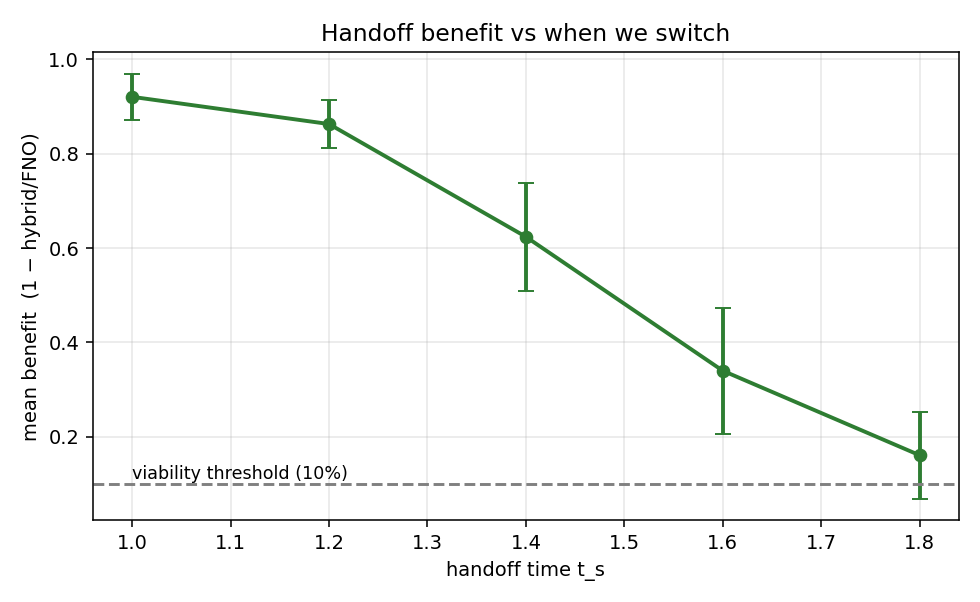
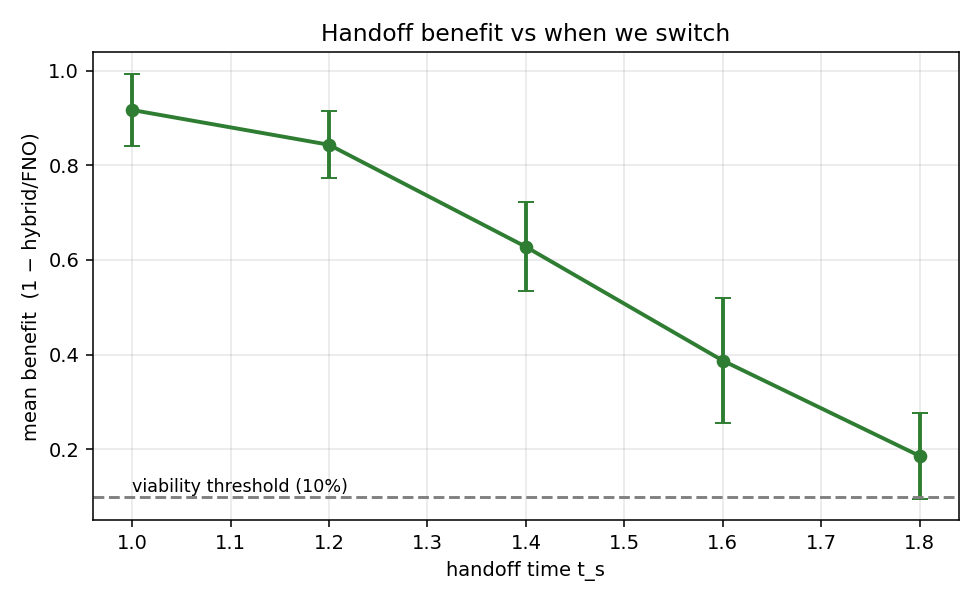
feat(module2): extend FNO evaluation to 20 held-out waves

diff --git a/hybrid_pde/coupling - 214050V/extend_predictions.py b/hybrid_pde/coupling - 214050V/extend_predictions.py
@@ -1,0 +1,102 @@
+"""
+Extend the held-out evaluation set from 10 -> 20 waves (Module 2, Coupling).
+
+RUN ON YOUR MACHINE (needs torch + neuralop; not runnable in the offline sandbox):
+
+    python "hybrid_pde/coupling - 214050V/extend_predictions.py"
+
+What it does:
+  1. Regenerates the Cole-Hopf initial conditions with the fixed seed (seed=42,
+     exactly as scripts/generate_dataset.py / colehopf.py), and computes the
+     Cole-Hopf ground truth for test waves 900-919.
+  2. Loads the trained FNO (results/fno/fno.pt + fno_config.pt) and predicts the
+     full trajectory for those 20 waves, using the SAME (ic, t, x) input channels
+     the model was trained with (see solvers/ml/fno/fno.py `build`).
+  3. SELF-CHECK: reproduces predictions for the first 10 waves (900-909) and
+     asserts they match results/eval/predictions.npz to a tight tolerance. If this
+     fails, STOP - the inference does not match the committed pipeline.
+  4. Saves results/eval/predictions_ext.npz with u_true_eval / FNO_eval at n=20.
+
+Then rebuild the figures at n=20:
+    MODULE2_PRED=results/eval/predictions_ext.npz python "hybrid_pde/coupling - 214050V/make_figures.py" all
+(on Windows PowerShell:  $env:MODULE2_PRED="results/eval/predictions_ext.npz"; python ... )
+"""
+import os
+import numpy as np
+import torch
+from neuralop.models import FNO
+
+ROOT = os.path.abspath(os.path.join(os.path.dirname(__file__), "..", ".."))
+PRED = os.path.join(ROOT, "results", "eval", "predictions.npz")
+FNO_PT = os.path.join(ROOT, "results", "fno", "fno.pt")
+FNO_CFG = os.path.join(ROOT, "results", "fno", "fno_config.pt")
+OUT = os.path.join(ROOT, "results", "eval", "predictions_ext.npz")
+
+# ---- constants (must match colehopf.py / spectral.py exactly) ----
+nu = 1.0 / (100 * np.pi)
+L, nx = 2.0, 512
+T, nt = 2.0, 200
+x = np.linspace(-1, 1, nx, endpoint=False)
+dx = L / nx
+t_start = 0.01
+t = np.concatenate([[0.0], np.linspace(t_start, T, nt - 1)])
+FIRST, LAST = 900, 920                       # test waves 900..919 (20 held out)
+
+# ---- reproduce the exact initial conditions (seed 42) ----
+def random_ic(rng, n_modes=4):
+    u = sum(rng.standard_normal() * np.sin(2 * np.pi * m * x / L + rng.uniform(0, 2 * np.pi))
+            for m in range(1, n_modes + 1))
+    return u / (np.abs(u).max() + 1e-12)
+
+rng = np.random.default_rng(42)
+ICs_all = [np.sin(np.pi * x)] + [random_ic(rng) for _ in range(LAST - 1)]  # indices 0..LAST-1
+ICs = np.stack(ICs_all[FIRST:LAST])          # (20, nx)
+
+# ---- Cole-Hopf ground truth for these 20 waves (analytic; matches colehopf.py) ----
+x_ext = np.concatenate([x - L, x, x + L])
+diff = x[:, None] - x_ext
+def cole_hopf(ICs):
+    cumint = np.concatenate([np.zeros((len(ICs), 1)),
+                             np.cumsum(0.5 * (ICs[:, :-1] + ICs[:, 1:]) * dx, axis=1)], axis=1)
+    a = -cumint / (2 * nu)
+    pe = np.tile(np.exp(a - a.max(axis=1, keepdims=True)), (1, 3))
+    U = np.empty((len(ICs), nt, nx)); U[:, 0] = ICs
+    for j in range(1, nt):
+        K = np.exp(-diff**2 / (4 * nu * t[j]))
+        U[:, j] = (pe @ (diff * K).T) / (pe @ K.T) / t[j]
+    return U
+u_true = cole_hopf(ICs)                       # (20, nt, nx)
+
+# ---- FNO predictions (same (ic,t,x) channels as training) ----
+cfg = torch.load(FNO_CFG, map_location="cpu", weights_only=False)
+model = FNO(n_modes=(cfg["n_modes"],), hidden_channels=cfg["hidden_channels"],
+            in_channels=cfg.get("in_channels", 3), out_channels=1)
+model.load_state_dict(torch.load(FNO_PT, map_location="cpu", weights_only=False))
+model.eval()
+
+xt = torch.tensor(x, dtype=torch.float32)
+tt = torch.tensor(t, dtype=torch.float32)
+
+@torch.no_grad()
+def fno_predict(ic):
+    ic_t = torch.tensor(ic, dtype=torch.float32)
+    ch_ic = ic_t[None, :].expand(nt, nx)
+    ch_t = tt[:, None].expand(nt, nx)
+    ch_x = xt[None, :].expand(nt, nx)
+    inp = torch.stack([ch_ic, ch_t, ch_x], dim=1)   # (nt, 3, nx)
+    return model(inp).squeeze(1).cpu().numpy()      # (nt, nx)
+
+fno_pred = np.stack([fno_predict(ic) for ic in ICs])  # (20, nt, nx)
+
+# ---- SELF-CHECK against the committed predictions for waves 900-909 ----
+d = np.load(PRED)
+def rel(a, b): return float(np.linalg.norm(a - b) / (np.linalg.norm(b) + 1e-12))
+err_truth = rel(u_true[:10], d["u_true_eval"])
+err_fno = rel(fno_pred[:10], d["FNO_eval"])
+print(f"self-check vs predictions.npz  |  truth rel diff = {err_truth:.2e}  |  FNO rel diff = {err_fno:.2e}")
+assert err_truth < 1e-4, "Cole-Hopf truth does not match - check constants/seed"
+assert err_fno < 1e-3, "FNO inference does not match committed predictions - check channels/checkpoint"
+
+np.savez(OUT, x=x.astype(np.float32), t=t.astype(np.float32),
+         u_true_eval=u_true.astype(np.float32), FNO_eval=fno_pred.astype(np.float32))
+print(f"OK - wrote {OUT} with n=20 held-out waves. Rebuild figures with MODULE2_PRED set to it.")

diff --git a/hybrid_pde/coupling - 214050V/make_figures.py b/hybrid_pde/coupling - 214050V/make_figures.py
@@ -8,7 +8,6 @@ Stages:  python make_figures.py compute   # heavy: restarts, caches arrays
          python make_figures.py all       # both
 Outputs: results/module2/figures/*.png
 """
-
 import os, sys, json
 import numpy as np
 from restart_spectral import solve_from, nearest_index, TGRID
